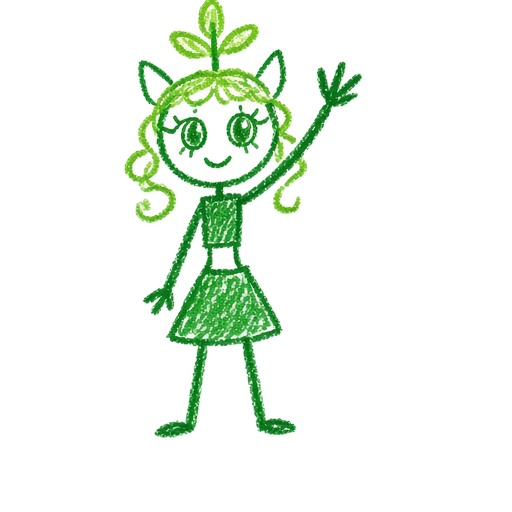
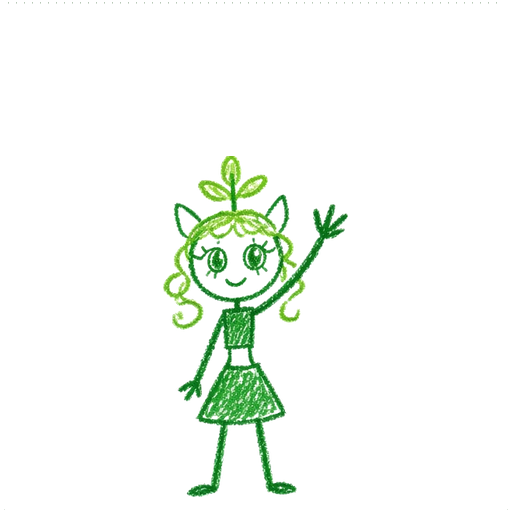
Demo: Clover Soft PASS queen art + skateboard (play v24) (#18)
Replace greenness-queen stand/wheel/wave and skateboard PNGs with Soft PASS
crops (~78% scale, trim anchors). Bump play cache to v=24 and hub app.js to
v=27 so browsers load new assets. Shelf demo thumbnails unchanged at v=22.

Changed region(s): [[0.2188, 0.0, 0.7188, 0.9688]]

diff --git a/app.js b/app.js
@@ -155,7 +155,7 @@ const DEMOS = [
     parent: "Greenness Queen vs sunglasses 小花 · 3 laps",
     blurb: "",
     kind: "play",
-    playPath: "play/clover-wheel/?v=23",
+    playPath: "play/clover-wheel/?v=24",
     shelfCover: "10_game_assets/demo/clover-wheel.png?v=22",
     iframeTitle: "Race the clover wheel!",
   },

diff --git a/play/clover-wheel/index.html b/play/clover-wheel/index.html
@@ -47,6 +47,6 @@
       <button id="boost-btn" type="button">Boost</button>
     </div>
   </div>
-  <script type="module" src="js/game.js?v=23"></script>
+  <script type="module" src="js/game.js?v=24"></script>
 </body>
 </html>

diff --git a/index.html b/index.html
@@ -91,6 +91,6 @@
     </div>
   </main>
 
-  <script src="app.js?v=26"></script>
+  <script src="app.js?v=27"></script>
 </body>
 </html>
